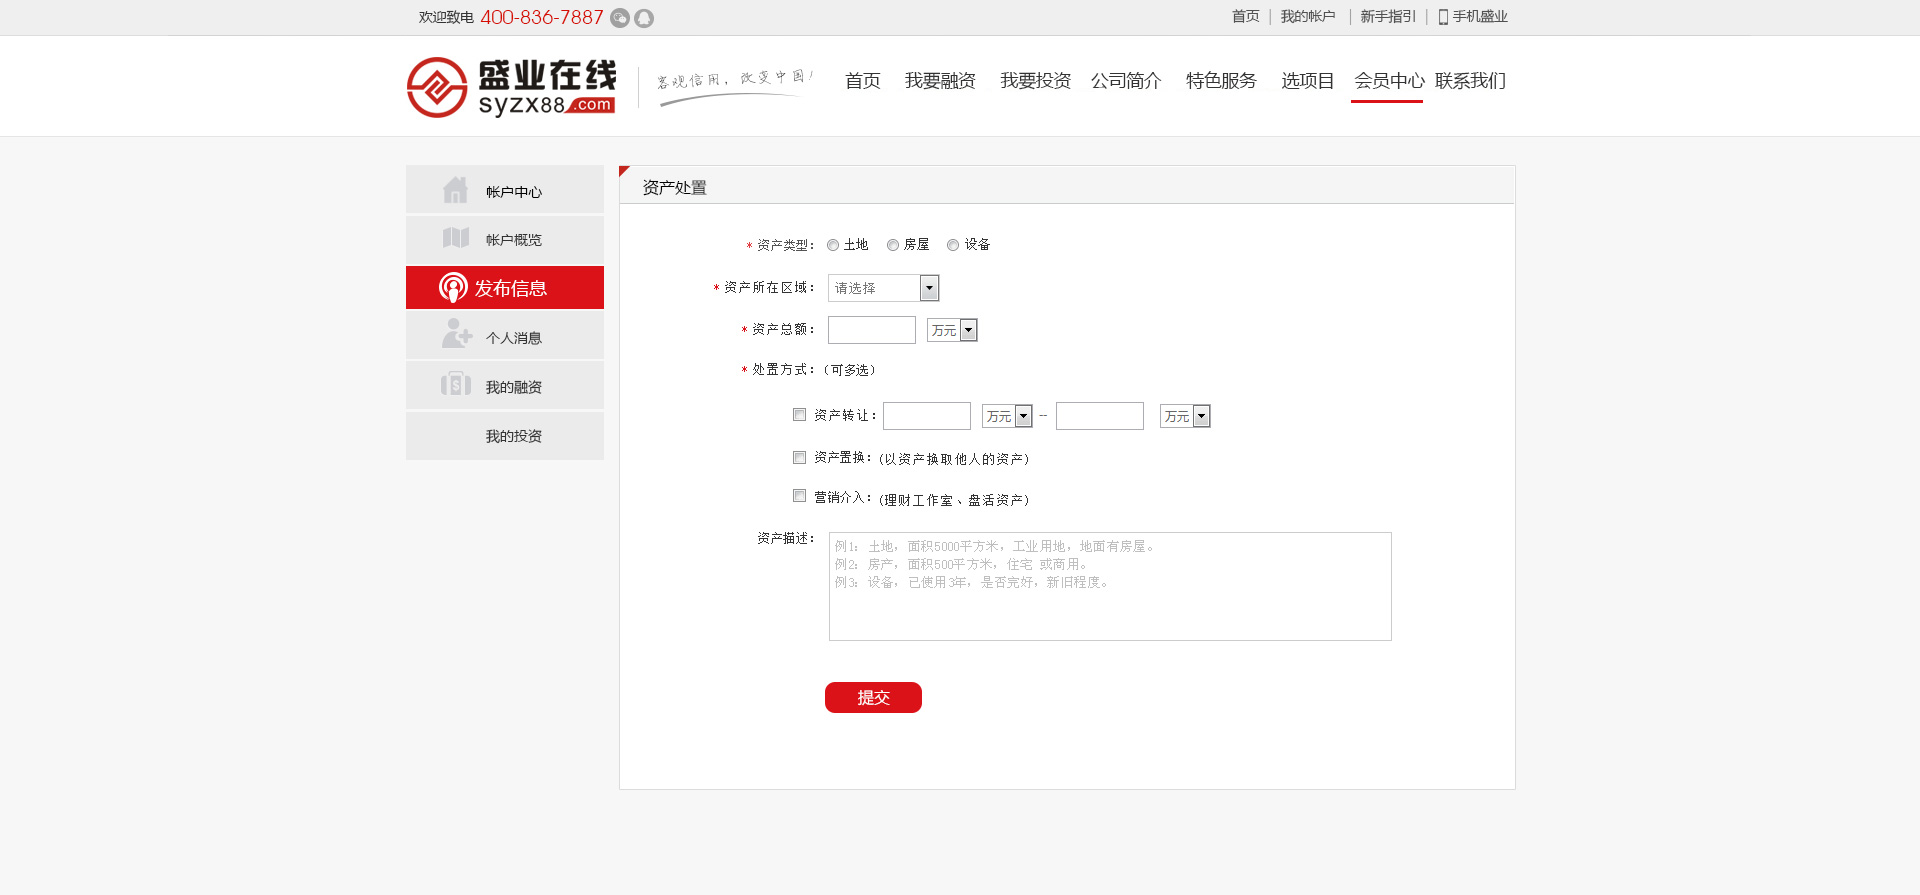
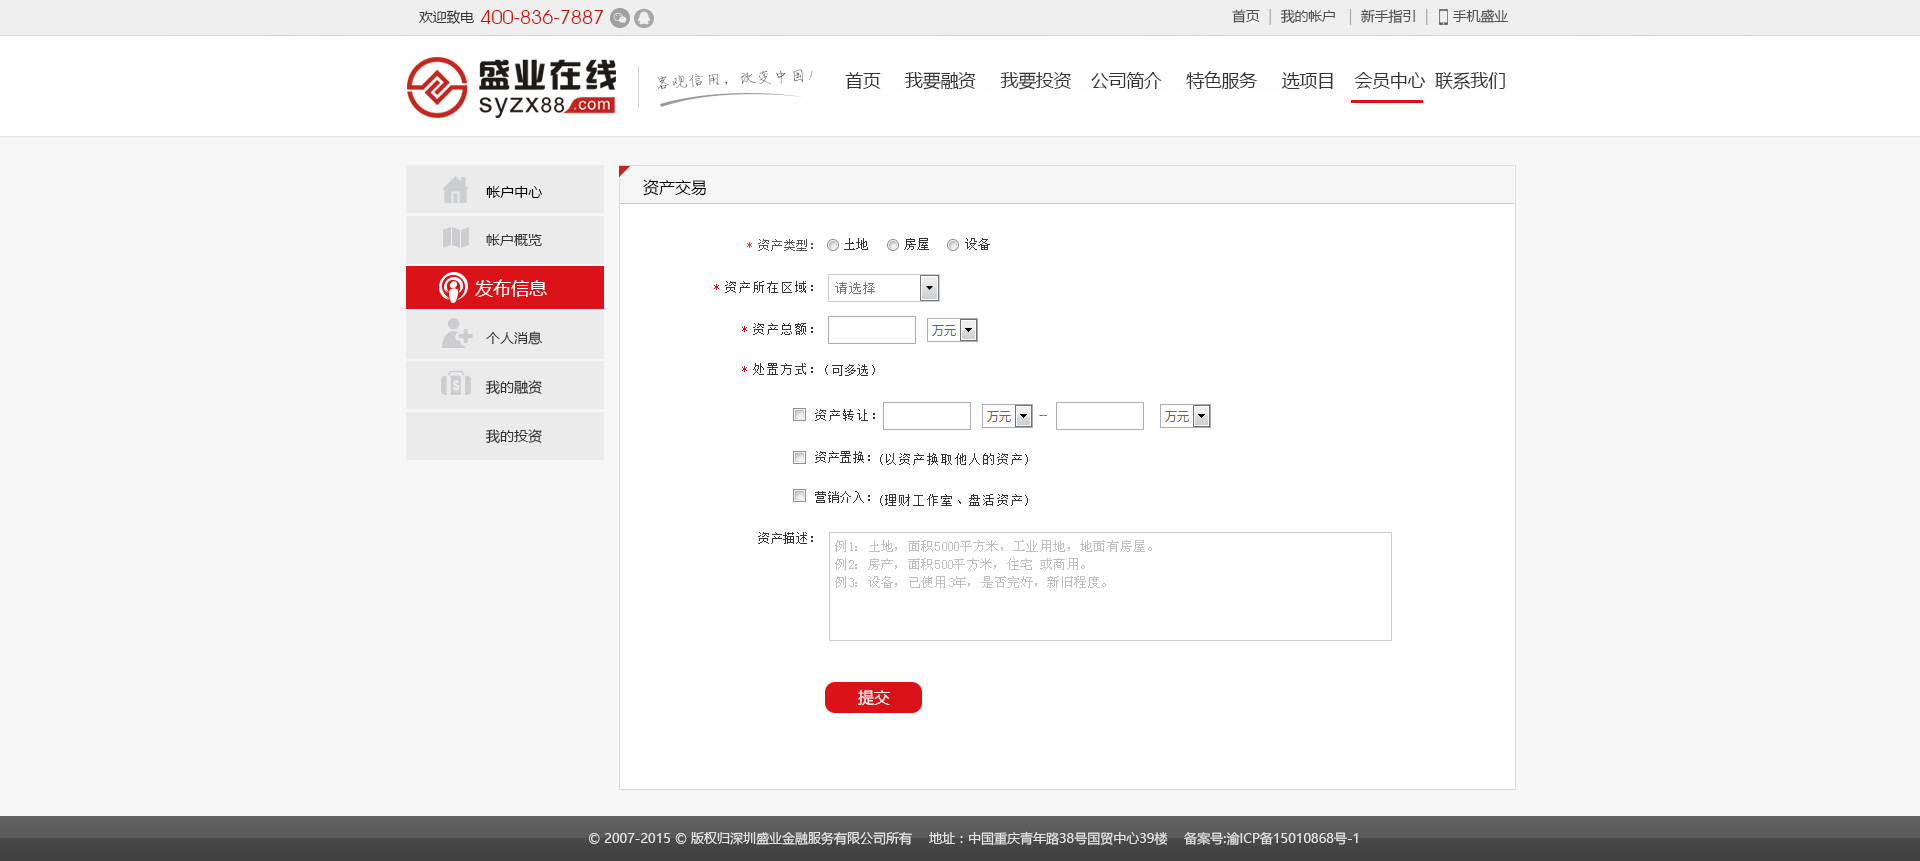
test

diff --git a/index.html b/index.html
@@ -31,7 +31,7 @@ body {
     <td><a href="zfzs.html" target="_blank">政府招商</a></td>
   </tr>
   <tr>
-    <td width="150" height="40"><a href="zccz.html" target="_blank">资产处置</a></td>
+    <td width="150" height="40"><a href="zccz.html" target="_blank">资产交易</a></td>
     <td><a href="zindex10.html" target="_blank">首页</a></td>
   </tr>
   <tr>
@@ -39,7 +39,7 @@ body {
     <td><a href="jsz.html" target="_blank">建设中</a></td>
   </tr>
   <tr>
-    <td height="40"><a href="myaccount.html" target="_blank">发布信息</a></td>
+    <td height="40">&nbsp;</td>
     <td><a href="list.html" target="_blank">融资列表页</a></td>
   </tr>
   <tr>
